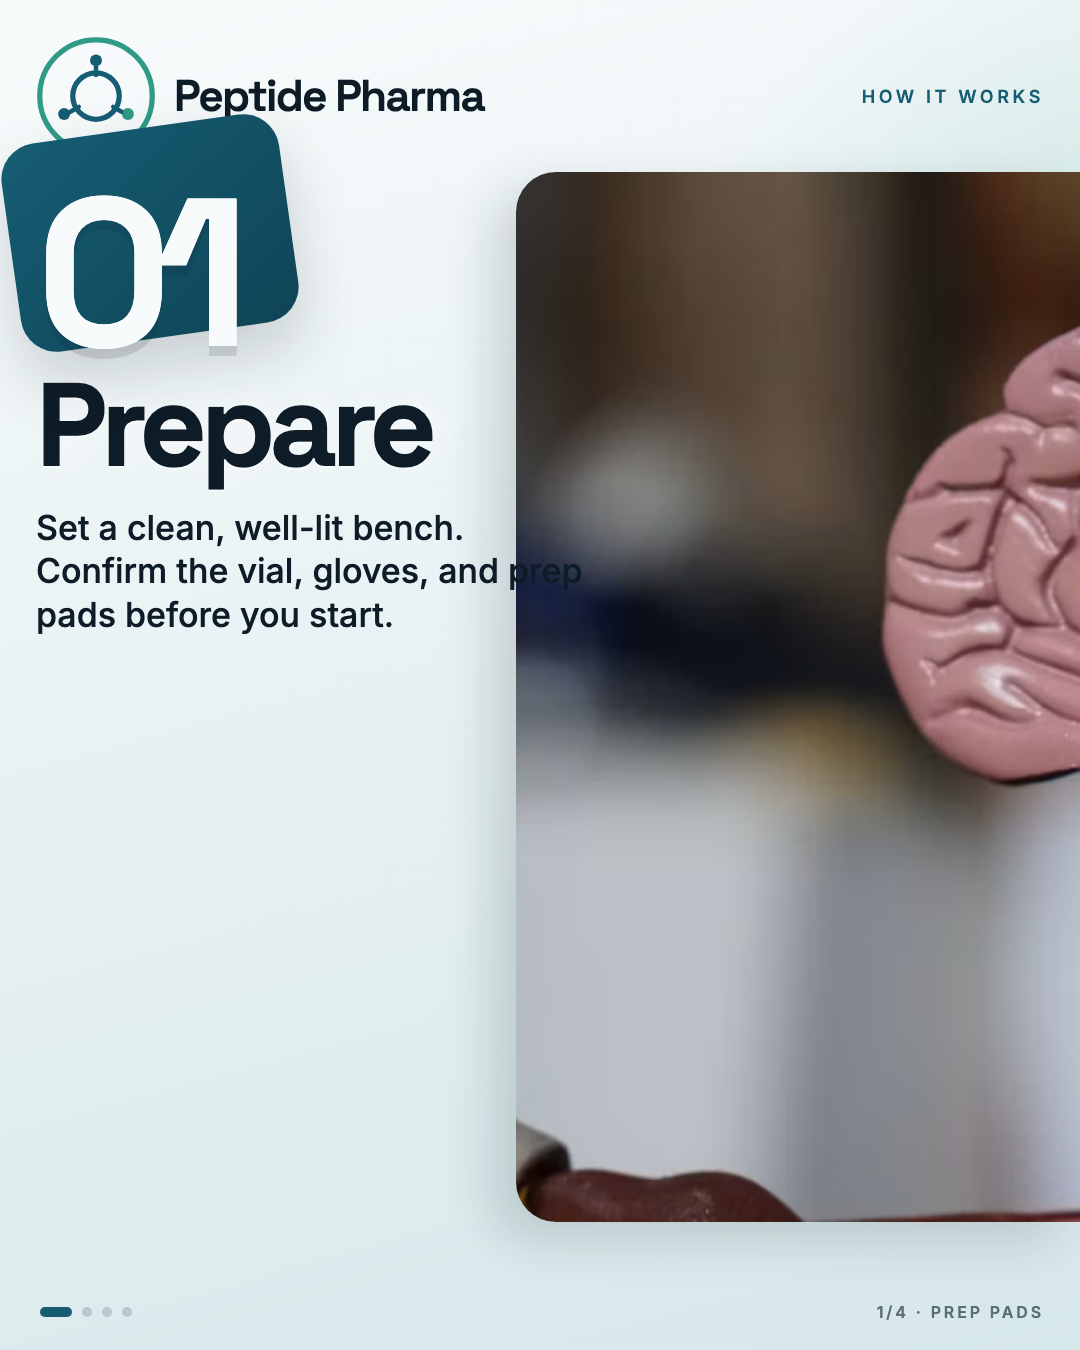
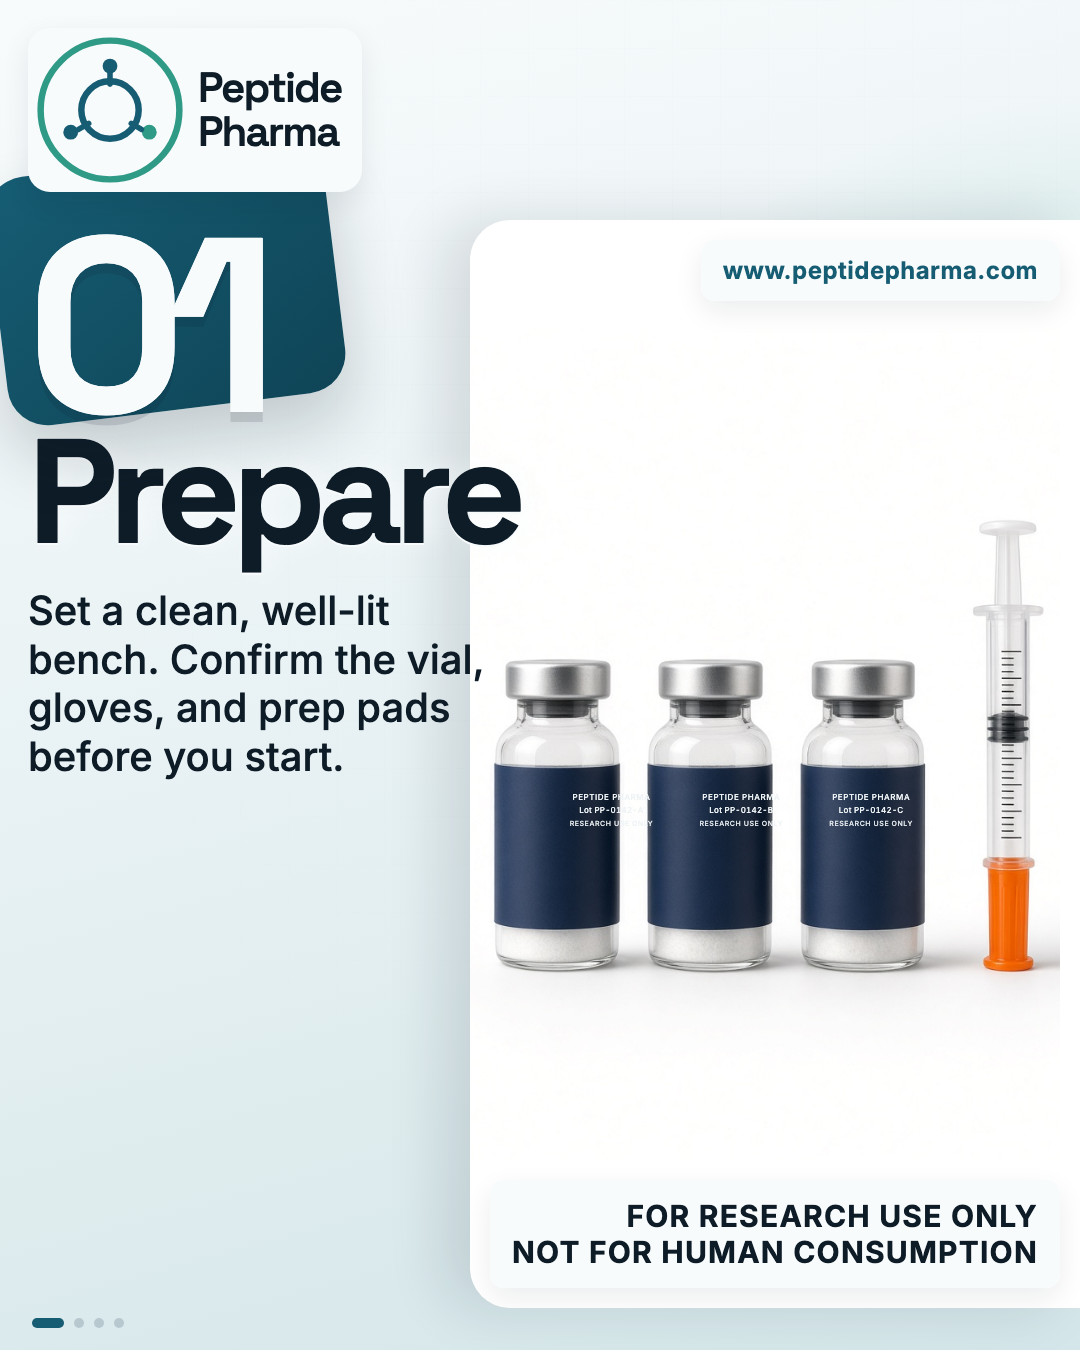
Tighten the Prepare Instagram slide around a research kit still and RUO labeling.
Keep one copy block, align URL and disclaimer to one rail, and drop consumer-style vial branding.

diff --git a/instagram-templates/protocol-impact.css b/instagram-templates/protocol-impact.css
@@ -1,47 +1,88 @@
 .canvas-impact {
   background:
-    radial-gradient(ellipse 90% 70% at 110% 30%, rgba(47, 154, 134, 0.22), transparent 55%),
-    linear-gradient(165deg, #f8fbfc 0%, #e7f1f3 48%, #d7e8ea 100%);
+    radial-gradient(ellipse 80% 60% at 100% 42%, rgba(47, 154, 134, 0.28), transparent 58%),
+    linear-gradient(165deg, #f8fbfc 0%, #e7f1f3 52%, #d4e6e9 100%);
 }
 
 .canvas-impact::before {
-  opacity: 0.18;
+  opacity: 0.12;
 }
 
 .impact {
+  --rail: 20px;
   display: flex;
   flex-direction: column;
   height: 100%;
-  padding: 36px 0 28px 36px;
+  padding: 28px 0 22px 28px;
 }
 
 .impact-top {
   display: flex;
   align-items: center;
   justify-content: space-between;
-  padding-right: 36px;
+  padding-right: 28px;
+  position: relative;
+  z-index: 3;
 }
 
 .canvas-impact .logo {
-  gap: 18px;
+  gap: 14px;
+  max-width: 46%;
+  position: relative;
+  z-index: 4;
+  background: #f8fbfc;
+  padding: 8px 20px 8px 8px;
+  border-radius: 22px;
+  box-shadow: 0 10px 28px rgba(14, 28, 40, 0.08);
 }
 
 .canvas-impact .logo img {
-  width: 120px;
-  height: 120px;
+  width: 148px;
+  height: 148px;
+  flex-shrink: 0;
 }
 
 .canvas-impact .logo span {
-  font-size: 44px;
-  letter-spacing: -0.04em;
+  font-size: 42px;
+  letter-spacing: -0.045em;
+  color: var(--ink);
+  line-height: 1.05;
 }
 
 .how {
-  font-size: 18px;
-  font-weight: 600;
-  letter-spacing: 0.2em;
-  text-transform: uppercase;
+  position: absolute;
+  top: var(--rail);
+  right: var(--rail);
+  z-index: 5;
+  font-size: 24px;
+  font-weight: 700;
+  letter-spacing: 0.02em;
+  text-transform: none;
   color: var(--primary);
+  background: rgba(248, 251, 252, 0.96);
+  padding: 16px 22px;
+  border-radius: 14px;
+  box-shadow: 0 10px 28px rgba(14, 28, 40, 0.08);
+}
+
+.ruo-chip {
+  position: absolute;
+  right: var(--rail);
+  bottom: var(--rail);
+  z-index: 5;
+  max-width: 640px;
+  font-size: 30px;
+  white-space: nowrap;
+  font-weight: 700;
+  line-height: 1.2;
+  letter-spacing: 0.04em;
+  text-transform: uppercase;
+  text-align: right;
+  color: var(--ink);
+  background: rgba(248, 251, 252, 0.96);
+  padding: 18px 22px;
+  border-radius: 14px;
+  box-shadow: 0 10px 28px rgba(14, 28, 40, 0.08);
 }
 
 .impact-stage {
@@ -54,85 +95,147 @@
 .impact-copy {
   position: relative;
   z-index: 2;
-  width: 58%;
-  padding-top: 8px;
+  width: 50%;
+  height: 100%;
+  display: flex;
+  flex-direction: column;
+  padding: 12px 24px 16px 0;
 }
 
 .num-wrap {
   position: relative;
   display: inline-flex;
   align-items: flex-end;
-  margin-left: -8px;
+  margin-left: -10px;
+  flex-shrink: 0;
 }
 
 .num-shape {
   position: absolute;
-  left: -18px;
-  bottom: 18px;
-  width: 280px;
-  height: 210px;
-  border-radius: 36px;
+  left: -22px;
+  bottom: 10px;
+  width: 340px;
+  height: 250px;
+  border-radius: 40px;
   background: linear-gradient(145deg, var(--primary) 0%, #0f4456 100%);
-  transform: rotate(-8deg);
-  box-shadow: 0 28px 60px rgba(14, 28, 40, 0.18);
+  transform: rotate(-7deg);
+  box-shadow: 0 32px 64px rgba(14, 28, 40, 0.2);
 }
 
 .num {
   position: relative;
   font-family: "Space Grotesk", Inter, sans-serif;
-  font-size: 210px;
+  font-size: 248px;
   font-weight: 700;
-  line-height: 0.78;
+  line-height: 0.76;
   letter-spacing: -0.08em;
   color: #f8fbfc;
   text-shadow: 0 10px 0 rgba(14, 28, 40, 0.12);
-  padding: 0 12px 0 8px;
+  padding: 0 8px;
 }
 
 .step-title {
-  margin-top: 18px;
-  font-size: 118px;
+  margin-top: 10px;
+  font-size: 148px;
   font-weight: 700;
-  line-height: 0.88;
-  letter-spacing: -0.055em;
+  line-height: 0.84;
+  letter-spacing: -0.06em;
   color: var(--ink);
-  text-shadow: 0 2px 0 #f8fbfc, 12px 0 28px rgba(248, 251, 252, 0.7);
+  text-shadow: 0 2px 0 #f8fbfc, 10px 0 24px rgba(248, 251, 252, 0.75);
 }
 
 .step-body {
-  margin-top: 28px;
-  max-width: 560px;
-  font-size: 34px;
+  margin-top: 32px;
+  max-width: 520px;
+  font-size: 40px;
   font-weight: 500;
-  line-height: 1.28;
+  line-height: 1.22;
   color: var(--ink);
 }
 
 .bleed {
   position: absolute;
-  top: -12px;
+  top: 0;
   right: 0;
-  bottom: 72px;
-  width: 54%;
+  bottom: 0;
+  width: 58%;
   z-index: 1;
   overflow: hidden;
   border-radius: 40px 0 0 40px;
-  box-shadow: -24px 18px 50px rgba(14, 28, 40, 0.16);
+  box-shadow: -28px 0 56px rgba(14, 28, 40, 0.12);
 }
 
-.bleed img {
-  width: 118%;
+.prep-still {
+  background: #ffffff;
+}
+
+.prep-frame {
+  position: absolute;
+  left: 0;
+  right: var(--rail);
+  top: 108px;
+  bottom: 148px;
+  overflow: hidden;
+}
+
+.prep-kit {
+  position: absolute;
+  inset: 0;
+  width: 100%;
   height: 100%;
   object-fit: cover;
-  object-position: 30% 50%;
+  object-position: 45% 62%;
 }
 
+.reagent {
+  position: absolute;
+  top: 58%;
+  width: 19%;
+  transform: translate(-50%, -50%);
+  color: #eef3f5;
+  font-family: Inter, system-ui, sans-serif;
+  font-weight: 500;
+  text-align: center;
+  line-height: 1.15;
+  pointer-events: none;
+}
+
+.reagent p {
+  white-space: nowrap;
+}
+
+.reagent p:first-child {
+  font-size: 8px;
+  text-transform: uppercase;
+  letter-spacing: 0.07em;
+}
+
+.reagent p:nth-child(2) {
+  margin-top: 4px;
+  font-size: 8px;
+  font-variant-numeric: tabular-nums;
+  letter-spacing: 0.03em;
+}
+
+.reagent p:nth-child(3) {
+  margin-top: 5px;
+  font-size: 7px;
+  text-transform: uppercase;
+  letter-spacing: 0.08em;
+  opacity: 0.92;
+}
+
+.reagent-a { left: 24%; }
+.reagent-b { left: 46%; }
+.reagent-c { left: 68%; }
+
 .impact-foot {
+  position: relative;
+  z-index: 3;
   display: flex;
   align-items: center;
   justify-content: space-between;
-  padding: 0 36px 0 4px;
-  margin-top: 8px;
+  padding: 10px 28px 0 4px;
 }
 
 .dots {
@@ -155,11 +258,14 @@
 }
 
 .pager {
-  font-size: 16px;
-  font-weight: 600;
-  letter-spacing: 0.18em;
+  font-size: 26px;
+  font-weight: 700;
+  letter-spacing: 0.12em;
   text-transform: uppercase;
-  color: var(--muted-fg);
+  color: var(--ink);
+  background: rgba(248, 251, 252, 0.94);
+  padding: 12px 18px;
+  border-radius: 12px;
 }
 
 body.export {

diff --git a/instagram-templates/05-protocol-01-design.html b/instagram-templates/05-protocol-01-design.html
@@ -17,10 +17,9 @@
           <div class="impact">
             <header class="impact-top">
               <div class="logo">
-                <img src="logo.svg" width="120" height="120" alt="" />
-                <span>Peptide Pharma</span>
+                <img src="logo.svg" width="148" height="148" alt="" />
+                <span>Peptide<br />Pharma</span>
               </div>
-              <p class="how">How it works</p>
             </header>
             <div class="impact-stage">
               <div class="impact-copy">
@@ -31,13 +30,27 @@
                 <h1 class="display step-title">Prepare</h1>
                 <p class="step-body">Set a clean, well-lit bench. Confirm the vial, gloves, and prep pads before you start.</p>
               </div>
-              <figure class="bleed">
-                <img
-                  data-src="image"
-                  alt=""
-                  referrerpolicy="no-referrer"
-                  src="https://images.unsplash.com/photo-1530026405186-ed1f139313f8?auto=format&fit=crop&w=1400&q=80"
-                />
+              <figure class="bleed prep-still">
+                <p class="how">www.peptidepharma.com</p>
+                <div class="prep-frame">
+                  <img class="prep-kit" src="../public/images/vial-kit-blank.png" alt="" />
+                  <div class="reagent reagent-a">
+                    <p>Peptide Pharma</p>
+                    <p>Lot PP-0142-A</p>
+                    <p>Research use only</p>
+                  </div>
+                  <div class="reagent reagent-b">
+                    <p>Peptide Pharma</p>
+                    <p>Lot PP-0142-B</p>
+                    <p>Research use only</p>
+                  </div>
+                  <div class="reagent reagent-c">
+                    <p>Peptide Pharma</p>
+                    <p>Lot PP-0142-C</p>
+                    <p>Research use only</p>
+                  </div>
+                </div>
+                <p class="ruo-chip">For research use only<br />Not for human consumption</p>
               </figure>
             </div>
             <footer class="impact-foot">
@@ -47,7 +60,6 @@
                 <span></span>
                 <span></span>
               </div>
-              <p class="pager">1/4 · Prep pads</p>
             </footer>
           </div>
         </div>

diff --git a/instagram-templates/fill.js b/instagram-templates/fill.js
@@ -28,6 +28,7 @@
   });
 
   document.querySelectorAll("[data-src]").forEach((el) => {
+    if (el.hasAttribute("data-lock")) return;
     const key = el.getAttribute("data-src");
     if (key === "image") el.src = product.image;
   });
